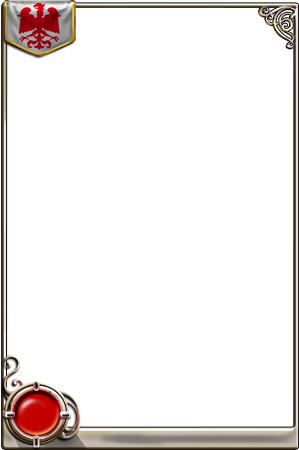
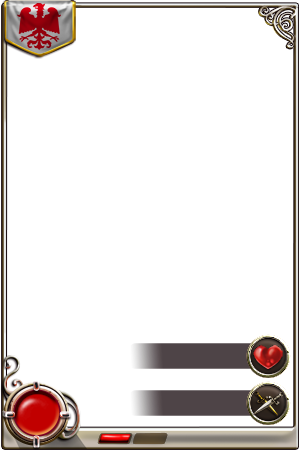
CardFrame.

Changed region(s): [[0.4515, 0.7467, 0.9933, 0.9644], [0.3311, 0.9644, 0.5719, 0.9956]]

diff --git a/src/com/fight2/entity/engine/CardFrame.java b/src/com/fight2/entity/engine/CardFrame.java
@@ -27,7 +27,7 @@ import com.fight2.util.TextureFactory;
 public class CardFrame extends Rectangle {
     private final static float CARD_WIDTH = 289.5f;
     private static final TextureFactory TEXTURE_FACTORY = TextureFactory.getInstance();
-    private final IEntity cardSprite;
+    private final IEntity cardCoverSprite;
     private final GameActivity activity;
     private final VertexBufferObjectManager vbom;
 
@@ -35,117 +35,201 @@ public class CardFrame extends Rectangle {
         super(x, y, width, height, activity.getVertexBufferObjectManager());
         this.activity = activity;
         this.vbom = activity.getVertexBufferObjectManager();
+        this.setAlpha(0);
         final BigDecimal decWidth = BigDecimal.valueOf(width);
         final BigDecimal decBaseWidth = BigDecimal.valueOf(CARD_WIDTH);
         final float scale = decWidth.divide(decBaseWidth, 6, RoundingMode.HALF_UP).floatValue();
-
         final ITextureRegion coverTexture = TEXTURE_FACTORY.getAssetTextureRegion(TextureEnum.COMMON_CARD_COVER);
-        cardSprite = new Sprite(width * 0.5f, height * 0.5f, width + 3 * scale, height + 3 * scale, coverTexture, vbom);
-        this.attachChild(cardSprite);
+        cardCoverSprite = new Sprite(width * 0.5f, height * 0.5f, width + 3 * scale, height + 3 * scale, coverTexture, vbom);
+        cardCoverSprite.setZIndex(0);
+        this.attachChild(cardCoverSprite);
 
         loadImageFromServer(card);
-
-        final Font mFont = ResourceManager.getInstance().getFont(FontEnum.Default, (int) (27 * scale));
-        final ITextureRegion hpAtkFrameTexture = TEXTURE_FACTORY.getAssetTextureRegion(TextureEnum.COMMON_CARD_FRAME_HPATK);
-        final Sprite hpAtkFrame = new Sprite(width - 90 * scale, 75 * scale, hpAtkFrameTexture.getWidth() * scale, hpAtkFrameTexture.getHeight() * scale,
-                hpAtkFrameTexture, vbom);
-        this.attachChild(hpAtkFrame);
-        final Text hpText = new Text(70 * scale, 70 * scale, mFont, "0123456789", vbom);
-        hpText.setColor(0XFFFFE3B0);
-        final Text atkText = new Text(70 * scale, 23 * scale, mFont, "0123456789", vbom);
-        atkText.setColor(0XFFFFE3B0);
-        hpText.setText(String.valueOf(card.getHp()));
-        atkText.setText(String.valueOf(card.getAtk()));
-        hpAtkFrame.attachChild(hpText);
-        hpAtkFrame.attachChild(atkText);
 
         final Race race = card.getRace();
         final ITextureRegion cardFrameTexture = getTexture(race);
         final float frameY = (cardFrameTexture.getHeight() * 0.5f - 11f) * scale;
         final Sprite cardFrameSprite = new Sprite(width * 0.5f, frameY, cardFrameTexture, vbom);
         cardFrameSprite.setScale(scale);
+        cardFrameSprite.setZIndex(1);
         this.attachChild(cardFrameSprite);
 
         float levelX = 0;
         float levelY = 0;
+        float hpAtkX = 0;
+        float hpY = 0;
+        float atkY = 0;
         switch (race) {
             case Human:
                 levelX = 32f;
                 levelY = 24f;
+                hpAtkX = 193;
+                hpY = 83;
+                atkY = 36;
                 break;
             case Angel:
                 levelX = 28f;
                 levelY = 24f;
+                hpAtkX = 193;
+                hpY = 88;
+                atkY = 41;
                 break;
             case Elf:
                 levelX = 31f;
                 levelY = 23f;
+                hpAtkX = 193;
+                hpY = 88;
+                atkY = 41;
                 break;
             case Devil:
                 levelX = 32f;
                 levelY = 23f;
+                hpAtkX = 193;
+                hpY = 84;
+                atkY = 37;
                 break;
         }
+
+        final Font hpatkFont = ResourceManager.getInstance().getFont(FontEnum.Default, (int) (27 * scale));
+        final Text hpText = new Text(hpAtkX * scale, hpY * scale, hpatkFont, String.valueOf(card.getHp()), vbom);
+        hpText.setColor(0XFFFFE3B0);
+        final Text atkText = new Text(hpAtkX * scale, atkY * scale, hpatkFont, String.valueOf(card.getAtk()), vbom);
+        atkText.setColor(0XFFFFE3B0);
+        this.attachChild(hpText);
+        hpText.setZIndex(2);
+        this.attachChild(atkText);
+        atkText.setZIndex(3);
+
         final Font levelFont = ResourceManager.getInstance().getFont(FontEnum.Bold, (int) (30 * scale));
         final Text levelText = new Text(levelX * scale, levelY * scale, levelFont, String.valueOf(card.getLevel()), vbom);
         levelText.setColor(0XFFFFE3B0);
         this.attachChild(levelText);
+        levelText.setZIndex(4);
 
-        final ITextureRegion starTexture = TEXTURE_FACTORY.getAssetTextureRegion(TextureEnum.COMMON_STAR);
-        for (int i = 0; i < card.getStar(); i++) {
-            final Sprite star = new Sprite((87 + 27f * i) * scale, height - 24 * scale, starTexture.getWidth() * scale, starTexture.getHeight() * scale,
-                    starTexture, vbom);
-            this.attachChild(star);
+        ITextureRegion starTexture = TEXTURE_FACTORY.getAssetTextureRegion(TextureEnum.COMMON_STAR_1);
+        switch (card.getStar()) {
+            case 1:
+                starTexture = TEXTURE_FACTORY.getAssetTextureRegion(TextureEnum.COMMON_STAR_1);
+                break;
+            case 2:
+                starTexture = TEXTURE_FACTORY.getAssetTextureRegion(TextureEnum.COMMON_STAR_2);
+                break;
+            case 3:
+                starTexture = TEXTURE_FACTORY.getAssetTextureRegion(TextureEnum.COMMON_STAR_3);
+                break;
+            case 4:
+                starTexture = TEXTURE_FACTORY.getAssetTextureRegion(TextureEnum.COMMON_STAR_4);
+                break;
+            case 5:
+                starTexture = TEXTURE_FACTORY.getAssetTextureRegion(TextureEnum.COMMON_STAR_5);
+                break;
+            case 6:
+                starTexture = TEXTURE_FACTORY.getAssetTextureRegion(TextureEnum.COMMON_STAR_6);
+                break;
         }
+        final Sprite star = new Sprite((85 + starTexture.getWidth() * 0.5f) * scale, height - 24 * scale, starTexture.getWidth() * scale,
+                starTexture.getHeight() * scale, starTexture, vbom);
+        this.attachChild(star);
+        star.setZIndex(5);
 
-        ITextureRegion tierGridTexture = TEXTURE_FACTORY.getAssetTextureRegion(TextureEnum.COMMON_CARD_FRAME_TIER_GRID_HUMAN);
-        ITextureRegion tierStickTexture = TEXTURE_FACTORY.getAssetTextureRegion(TextureEnum.COMMON_CARD_FRAME_TIER_STICK_HUMAN);
+        ITextureRegion tierGridTexture1 = TEXTURE_FACTORY.getAssetTextureRegion(TextureEnum.COMMON_CARD_FRAME_TIER_GRID_HUMAN);
+        ITextureRegion tierGridTexture2 = TEXTURE_FACTORY.getAssetTextureRegion(TextureEnum.COMMON_CARD_FRAME_TIER_GRID_HUMAN_2);
+        ITextureRegion tierStickTexture1 = TEXTURE_FACTORY.getAssetTextureRegion(TextureEnum.COMMON_CARD_FRAME_TIER_STICK_HUMAN);
+        ITextureRegion tierStickTexture2 = TEXTURE_FACTORY.getAssetTextureRegion(TextureEnum.COMMON_CARD_FRAME_TIER_STICK_HUMAN_2);
+        ITextureRegion tierStickTexture3 = TEXTURE_FACTORY.getAssetTextureRegion(TextureEnum.COMMON_CARD_FRAME_TIER_STICK_HUMAN_3);
         float tierGridX = 114;
         float tierGridY = 1;
+        float tierStickX = 114;
+        float tierStickY = 1;
         switch (race) {
             case Human:
-                tierGridTexture = TEXTURE_FACTORY.getAssetTextureRegion(TextureEnum.COMMON_CARD_FRAME_TIER_GRID_HUMAN);
-                tierStickTexture = TEXTURE_FACTORY.getAssetTextureRegion(TextureEnum.COMMON_CARD_FRAME_TIER_STICK_HUMAN);
-                tierGridX = 112;
+                tierGridTexture1 = TEXTURE_FACTORY.getAssetTextureRegion(TextureEnum.COMMON_CARD_FRAME_TIER_GRID_HUMAN);
+                tierGridTexture2 = TEXTURE_FACTORY.getAssetTextureRegion(TextureEnum.COMMON_CARD_FRAME_TIER_GRID_HUMAN_2);
+                tierStickTexture2 = TEXTURE_FACTORY.getAssetTextureRegion(TextureEnum.COMMON_CARD_FRAME_TIER_STICK_HUMAN_2);
+                tierStickTexture3 = TEXTURE_FACTORY.getAssetTextureRegion(TextureEnum.COMMON_CARD_FRAME_TIER_STICK_HUMAN_3);
+                tierGridX = 164;
                 tierGridY = 1;
+                tierStickX = 128;
+                tierStickY = 0;
                 break;
             case Angel:
-                tierGridTexture = TEXTURE_FACTORY.getAssetTextureRegion(TextureEnum.COMMON_CARD_FRAME_TIER_GRID_COMMON);
-                tierStickTexture = TEXTURE_FACTORY.getAssetTextureRegion(TextureEnum.COMMON_CARD_FRAME_TIER_STICK_ANGEL);
-                tierGridX = 108;
+                tierGridTexture1 = TEXTURE_FACTORY.getAssetTextureRegion(TextureEnum.COMMON_CARD_FRAME_TIER_GRID_COMMON);
+                tierGridTexture2 = TEXTURE_FACTORY.getAssetTextureRegion(TextureEnum.COMMON_CARD_FRAME_TIER_GRID_COMMON_2);
+                tierStickTexture1 = TEXTURE_FACTORY.getAssetTextureRegion(TextureEnum.COMMON_CARD_FRAME_TIER_STICK_ANGEL);
+                tierStickTexture2 = TEXTURE_FACTORY.getAssetTextureRegion(TextureEnum.COMMON_CARD_FRAME_TIER_STICK_ANGEL_2);
+                tierStickTexture3 = TEXTURE_FACTORY.getAssetTextureRegion(TextureEnum.COMMON_CARD_FRAME_TIER_STICK_ANGEL_3);
+                tierGridX = 164;
                 tierGridY = 6.5f;
+                tierStickX = 130;
+                tierStickY = 5.5f;
                 break;
             case Elf:
-                tierGridTexture = TEXTURE_FACTORY.getAssetTextureRegion(TextureEnum.COMMON_CARD_FRAME_TIER_GRID_COMMON);
-                tierStickTexture = TEXTURE_FACTORY.getAssetTextureRegion(TextureEnum.COMMON_CARD_FRAME_TIER_STICK_ELF);
-                tierGridX = 99;
+                tierGridTexture1 = TEXTURE_FACTORY.getAssetTextureRegion(TextureEnum.COMMON_CARD_FRAME_TIER_GRID_COMMON);
+                tierGridTexture2 = TEXTURE_FACTORY.getAssetTextureRegion(TextureEnum.COMMON_CARD_FRAME_TIER_GRID_COMMON_2);
+                tierStickTexture1 = TEXTURE_FACTORY.getAssetTextureRegion(TextureEnum.COMMON_CARD_FRAME_TIER_STICK_ELF);
+                tierStickTexture2 = TEXTURE_FACTORY.getAssetTextureRegion(TextureEnum.COMMON_CARD_FRAME_TIER_STICK_ELF_2);
+                tierStickTexture3 = TEXTURE_FACTORY.getAssetTextureRegion(TextureEnum.COMMON_CARD_FRAME_TIER_STICK_ELF_3);
+                tierGridX = 153;
                 tierGridY = 1;
+                tierStickX = 117;
+                tierStickY = 0;
                 break;
             case Devil:
-                tierGridTexture = TEXTURE_FACTORY.getAssetTextureRegion(TextureEnum.COMMON_CARD_FRAME_TIER_GRID_COMMON);
-                tierStickTexture = TEXTURE_FACTORY.getAssetTextureRegion(TextureEnum.COMMON_CARD_FRAME_TIER_STICK_DEVIL);
-                tierGridX = 105;
-                tierGridY = -1;
+                tierGridTexture1 = TEXTURE_FACTORY.getAssetTextureRegion(TextureEnum.COMMON_CARD_FRAME_TIER_GRID_COMMON);
+                tierGridTexture2 = TEXTURE_FACTORY.getAssetTextureRegion(TextureEnum.COMMON_CARD_FRAME_TIER_GRID_COMMON_2);
+                tierStickTexture1 = TEXTURE_FACTORY.getAssetTextureRegion(TextureEnum.COMMON_CARD_FRAME_TIER_STICK_DEVIL);
+                tierStickTexture2 = TEXTURE_FACTORY.getAssetTextureRegion(TextureEnum.COMMON_CARD_FRAME_TIER_STICK_DEVIL_2);
+                tierStickTexture3 = TEXTURE_FACTORY.getAssetTextureRegion(TextureEnum.COMMON_CARD_FRAME_TIER_STICK_DEVIL_3);
+                tierGridX = 153;
+                tierGridY = -0.5f;
+                tierStickX = 116;
+                tierStickY = -1.5f;
                 break;
         }
-        final float tierGridWidth = tierGridTexture.getWidth() * scale;
-        final float tierGridHeight = tierGridTexture.getHeight() * scale;
-        final float tierStickWidth = tierStickTexture.getWidth() * scale;
-        final float tierStickHeight = tierStickTexture.getHeight() * scale;
-        final Sprite tierGrid = new Sprite(tierGridX * scale, tierGridY * scale, tierGridWidth, tierGridHeight, tierGridTexture, vbom);
-        final Sprite tierStick = new Sprite(tierGridWidth * 0.5f, tierGridHeight * 0.5f - 1, tierStickWidth, tierStickHeight, tierStickTexture, vbom);
-        tierGrid.attachChild(tierStick);
-        this.attachChild(tierGrid);
-        final int tierCount = (int) Math.ceil(card.getStar() * 0.5);
-        for (int i = 0; i < tierCount; i++) {
-            final Sprite tierGridAdd = new Sprite(tierGridX * scale + (tierGridWidth + scale) * (i + 1), tierGridY * scale, tierGridWidth, tierGridHeight,
-                    tierGridTexture, vbom);
-            if ((card.getTier() - 1) > i) {
-                final Sprite tierStickAdd = new Sprite(tierGridWidth * 0.5f, tierGridHeight * 0.5f - 1, tierStickWidth, tierStickHeight, tierStickTexture, vbom);
-                tierGridAdd.attachChild(tierStickAdd);
-            }
+
+        final int tierGridAddAmount = (int) Math.ceil(card.getStar() * 0.5) - 1;
+        if (tierGridAddAmount == 1) {
+            final float tierGridWidth = tierGridTexture1.getWidth() * scale;
+            final float tierGridHeight = tierGridTexture1.getHeight() * scale;
+            final Sprite tierGridAdd = new Sprite(tierGridX * scale + tierGridWidth * 0.5f, tierGridY * scale, tierGridWidth, tierGridHeight, tierGridTexture1,
+                    vbom);
             this.attachChild(tierGridAdd);
+            tierGridAdd.setZIndex(6);
+        } else if (tierGridAddAmount == 2) {
+            final float tierGridWidth = tierGridTexture2.getWidth() * scale;
+            final float tierGridHeight = tierGridTexture2.getHeight() * scale;
+            final Sprite tierGridAdd = new Sprite(tierGridX * scale + tierGridWidth * 0.5f, tierGridY * scale, tierGridWidth, tierGridHeight, tierGridTexture2,
+                    vbom);
+            this.attachChild(tierGridAdd);
+            tierGridAdd.setZIndex(6);
         }
+
+        final int tierStickAddAmount = card.getTier() - 1;
+        ITextureRegion tierStickTexture = tierStickTexture1;
+        if (tierStickAddAmount == 1) {
+            tierStickTexture = tierStickTexture1;
+        } else if (tierStickAddAmount == 2) {
+            tierStickTexture = tierStickTexture2;
+        } else if (tierStickAddAmount == 3) {
+            tierStickTexture = tierStickTexture3;
+        }
+        if (tierStickAddAmount > 0) {
+            final float tierStickWidth = tierStickTexture.getWidth() * scale;
+            final float tierStickHeight = tierStickTexture.getHeight() * scale;
+            final Sprite tierStickAdd = new Sprite(tierStickX * scale + tierStickWidth * 0.5f, tierStickY * scale, tierStickWidth, tierStickHeight,
+                    tierStickTexture, vbom);
+            this.attachChild(tierStickAdd);
+            tierStickAdd.setZIndex(7);
+        }
+        // for (int i = 0; i < tierCount; i++) {
+        // final Sprite tierGridAdd = new Sprite(tierGridX * scale + (tierGridWidth + scale) * (i + 1), tierGridY * scale, tierGridWidth, tierGridHeight,
+        // tierGridTexture, vbom);
+        // if ((card.getTier() - 1) > i) {
+        // final Sprite tierStickAdd = new Sprite(tierGridWidth * 0.5f, tierGridHeight * 0.5f - 1, tierStickWidth, tierStickHeight, tierStickTexture, vbom);
+        // tierGridAdd.attachChild(tierStickAdd);
+        // }
+        // this.attachChild(tierGridAdd);
+        // }
 
     }
 
@@ -207,7 +291,17 @@ public class CardFrame extends Rectangle {
                 if (image != null) {
                     final ITextureRegion texture = TEXTURE_FACTORY.getTextureRegion(image);
                     final Sprite imageSprite = new Sprite(mWidth * 0.5f, mHeight * 0.5f, mWidth, mHeight, texture, vbom);
-                    cardSprite.attachChild(imageSprite);
+                    imageSprite.setZIndex(0);
+                    final IEntity parent = cardCoverSprite.getParent();
+                    activity.runOnUpdateThread(new Runnable() {
+                        @Override
+                        public void run() {
+                            cardCoverSprite.detachSelf();
+                            parent.attachChild(imageSprite);
+                            parent.sortChildren();
+                        }
+                    });
+
                 }
 
             }

diff --git a/src/com/fight2/constant/TextureEnum.java b/src/com/fight2/constant/TextureEnum.java
@@ -14,8 +14,13 @@ public enum TextureEnum {
     COMMON_HP_RIGHT_RED("images/common_hp_right_red.png", 10, 23),
     COMMON_HP_RIGHT_GREEN("images/common_hp_right_green.png", 10, 23),
     COMMON_HP_GREEN("images/common_hp_green.png", 285, 23),
-    COMMON_CARD_COVER("images/common_card_cover.png", 810, 540),
-    COMMON_STAR("images/common_star.png", 30, 30),
+    COMMON_CARD_COVER("images/common_card_cover.png", 290, 435),
+    COMMON_STAR_1("images/common_star_1.png", 30, 30),
+    COMMON_STAR_2("images/common_star_2.png", 57, 30),
+    COMMON_STAR_3("images/common_star_3.png", 83, 30),
+    COMMON_STAR_4("images/common_star_4.png", 110, 30),
+    COMMON_STAR_5("images/common_star_5.png", 137, 30),
+    COMMON_STAR_6("images/common_star_6.png", 164, 30),
     COMMON_ARENA_TICKET("images/common_arena_ticket.png", 109, 76),
     COMMON_STAMINA("images/common_stamina.png", 120, 138),
     COMMON_MIGHT_ICON("images/common_might_icon.png", 44, 44),
@@ -32,13 +37,22 @@ public enum TextureEnum {
     COMMON_CARD_FRAME_ANGEL("images/common_card_frame_angel.png", 299, 450),
     COMMON_CARD_FRAME_DEVIL("images/common_card_frame_devil.png", 299, 450),
     COMMON_CARD_FRAME_ELF("images/common_card_frame_elf.png", 315, 455),
-    COMMON_CARD_FRAME_HPATK("images/common_card_frame_hpatk.png", 160, 91),
     COMMON_CARD_FRAME_TIER_GRID_HUMAN("images/common_card_frame_tier_grid_human.png", 36, 13),
+    COMMON_CARD_FRAME_TIER_GRID_HUMAN_2("images/common_card_frame_tier_grid_human_2.png", 72, 13),
     COMMON_CARD_FRAME_TIER_STICK_HUMAN("images/common_card_frame_tier_stick_human.png", 34, 11),
+    COMMON_CARD_FRAME_TIER_STICK_HUMAN_2("images/common_card_frame_tier_stick_human_2.png", 70, 11),
+    COMMON_CARD_FRAME_TIER_STICK_HUMAN_3("images/common_card_frame_tier_stick_human_3.png", 107, 11),
     COMMON_CARD_FRAME_TIER_STICK_ANGEL("images/common_card_frame_tier_stick_angel.png", 34, 11),
-    COMMON_CARD_FRAME_TIER_GRID_COMMON("images/common_card_frame_tier_grid_common.png", 35, 12),
+    COMMON_CARD_FRAME_TIER_STICK_ANGEL_2("images/common_card_frame_tier_stick_angel_2.png", 70, 11),
+    COMMON_CARD_FRAME_TIER_STICK_ANGEL_3("images/common_card_frame_tier_stick_angel_3.png", 105, 11),
+    COMMON_CARD_FRAME_TIER_GRID_COMMON("images/common_card_frame_tier_grid_common.png", 35, 11),
+    COMMON_CARD_FRAME_TIER_GRID_COMMON_2("images/common_card_frame_tier_grid_common_2.png", 72, 11),
     COMMON_CARD_FRAME_TIER_STICK_ELF("images/common_card_frame_tier_stick_elf.png", 34, 11),
+    COMMON_CARD_FRAME_TIER_STICK_ELF_2("images/common_card_frame_tier_stick_elf_2.png", 71, 11),
+    COMMON_CARD_FRAME_TIER_STICK_ELF_3("images/common_card_frame_tier_stick_elf_3.png", 107, 11),
     COMMON_CARD_FRAME_TIER_STICK_DEVIL("images/common_card_frame_tier_stick_devil.png", 34, 11),
+    COMMON_CARD_FRAME_TIER_STICK_DEVIL_2("images/common_card_frame_tier_stick_devil_2.png", 71, 11),
+    COMMON_CARD_FRAME_TIER_STICK_DEVIL_3("images/common_card_frame_tier_stick_devil_3.png", 107, 11),
 
     // Chat room images.
     CHAT_INPUT_BG("images/chat_input_backgroud.png", 755, 75),

diff --git a/src/com/fight2/scene/QuestTreasureScene.java b/src/com/fight2/scene/QuestTreasureScene.java
@@ -64,7 +64,7 @@ public class QuestTreasureScene extends BaseScene {
             cardFrame.attachChild(hpText);
             cardFrame.attachChild(atkText);
             cardFrame.attachChild(nameText);
-            final ITextureRegion starTexture = textureFactory.getAssetTextureRegion(TextureEnum.COMMON_STAR);
+            final ITextureRegion starTexture = textureFactory.getAssetTextureRegion(TextureEnum.COMMON_STAR_1);
             for (int i = 0; i < card.getStar(); i++) {
                 final Sprite star = new Sprite(15 + 19.5f * i, CARD_HEIGHT - 18, 19.5f, 24, starTexture, vbom);
                 cardFrame.attachChild(star);

diff --git a/src/com/fight2/util/AccountUtils.java b/src/com/fight2/util/AccountUtils.java
@@ -98,6 +98,8 @@ public class AccountUtils {
                 final Card card = new Card();
                 card.setId(cardJson.getInt("id"));
                 card.setStar(cardJson.getInt("star"));
+                card.setLevel(cardJson.getInt("level"));
+                card.setTier(cardJson.getInt("tier"));
                 card.setAtk(cardJson.getInt("atk"));
                 card.setAvatar(avatar);
                 card.setAvatarLoaded(true);
